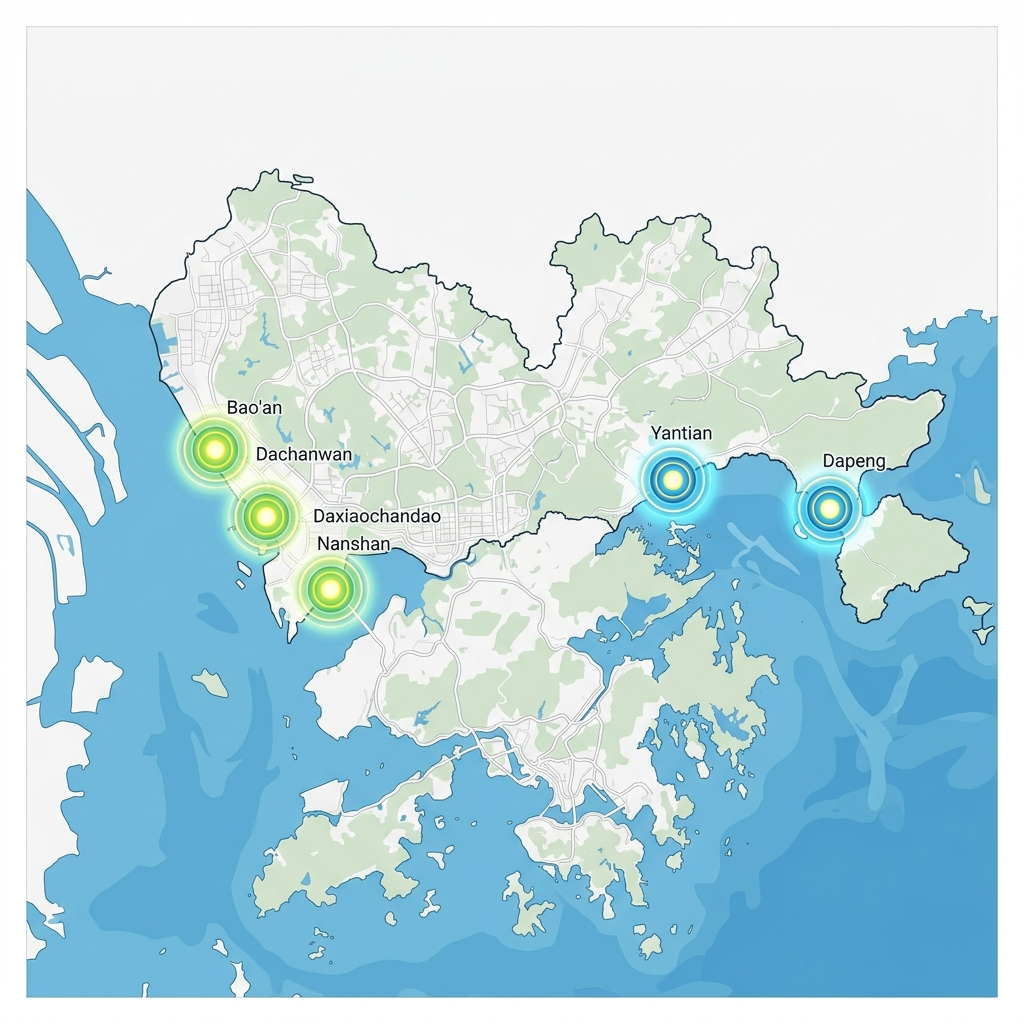
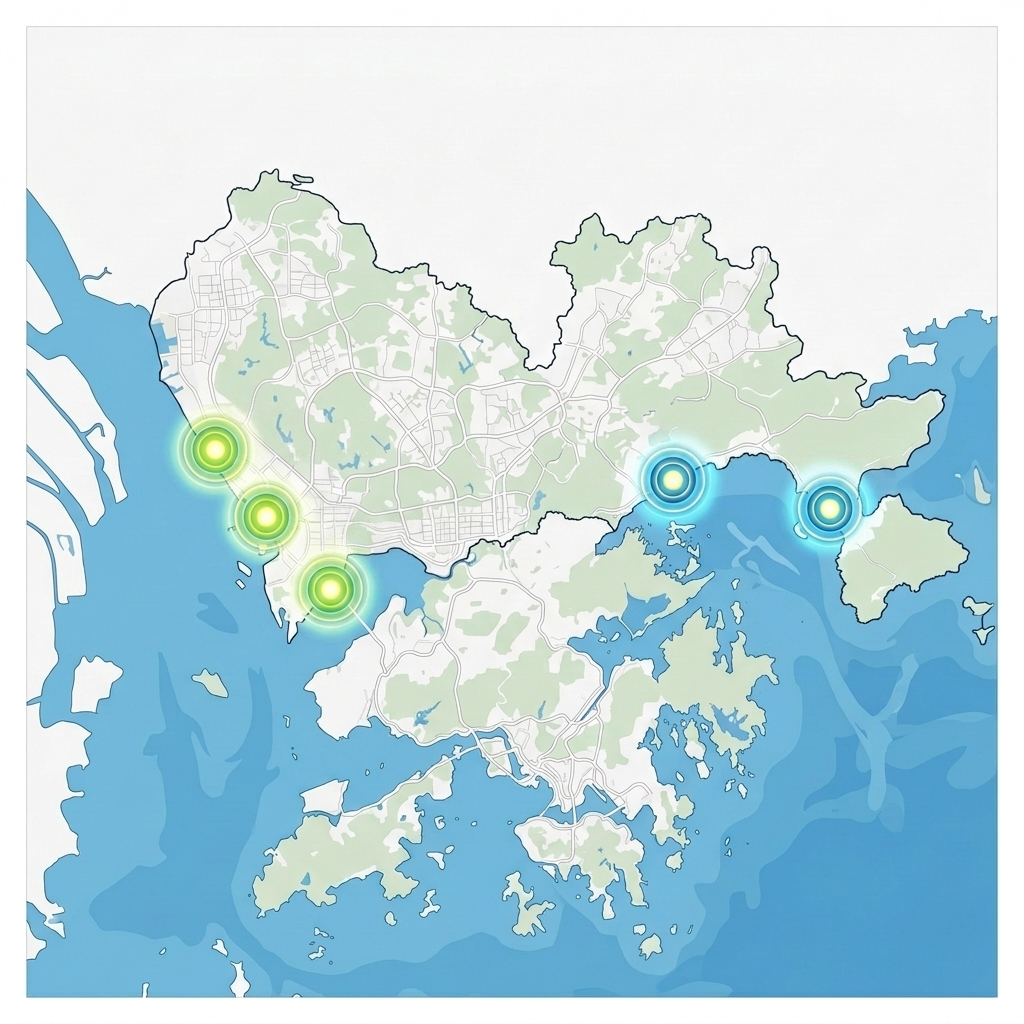
style: remove emojis from port labels and replace base map with clean version without English labels

diff --git a/shenzhen_ports_map.html b/shenzhen_ports_map.html
@@ -259,24 +259,24 @@
       
       <!-- West Hotspots -->
       <div class="hotspot hotspot-west" id="pin-baoan" style="left: 30%; top: 35%;" onclick="showPort('baoan')">
-        <span class="hotspot-icon">✈</span>바오안 항구
+        바오안 항구
       </div>
       <div class="hotspot hotspot-west" id="pin-dachanwan" style="left: 39%; top: 48%;" onclick="showPort('dachanwan')">
-        <span class="hotspot-icon">🏗</span>다찬완 항구
+        다찬완 항구
       </div>
       <div class="hotspot hotspot-west" id="pin-daxiaochandao" style="left: 45%; top: 58%;" onclick="showPort('daxiaochandao')">
-        <span class="hotspot-icon">🧪</span>다샤오찬다오 항구
+        다샤오찬다오 항구
       </div>
       <div class="hotspot hotspot-west" id="pin-nanshan" style="left: 40%; top: 67%;" onclick="showPort('nanshan')">
-        <span class="hotspot-icon">🛳</span>난산 항구
+        난산 항구
       </div>
       
       <!-- East Hotspots -->
       <div class="hotspot hotspot-east" id="pin-yantian" style="left: 65%; top: 52%;" onclick="showPort('yantian')">
-        <span class="hotspot-icon">⚓</span>옌톈 항구
+        옌톈 항구
       </div>
       <div class="hotspot hotspot-east" id="pin-dapeng" style="left: 82%; top: 54%;" onclick="showPort('dapeng')">
-        <span class="hotspot-icon">⚡</span>다펑 항구
+        다펑 항구
       </div>
       
       <!-- Floating Popover Balloon -->
@@ -359,7 +359,7 @@
       badge.textContent = data.group;
       badge.className = 'port-group-badge ' + data.groupClass;
       
-      document.getElementById('popoverTitle').innerHTML = data.icon + ' ' + data.name;
+      document.getElementById('popoverTitle').innerHTML = data.name;
       document.getElementById('popoverFunc').textContent = data.func;
       document.getElementById('popoverDesc').innerHTML = data.desc;
       
